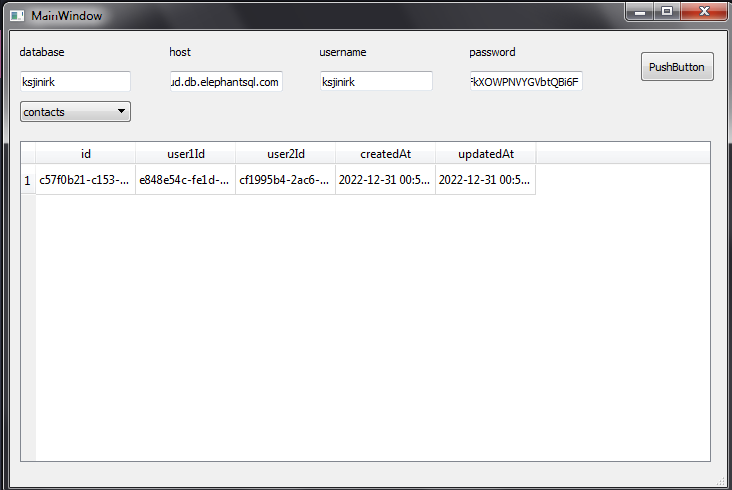
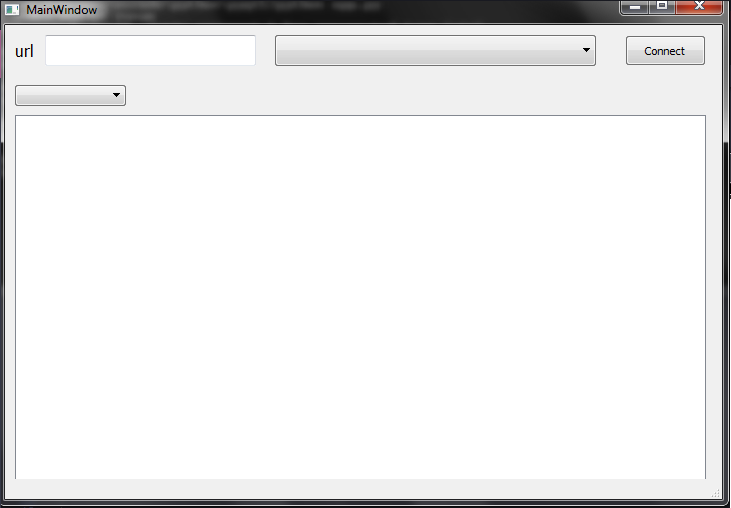
add url

Changed region(s): [[0.0, 0.0, 1.0, 1.0]]

diff --git a/app.py b/app.py
@@ -3,11 +3,14 @@ from PyQt5.QtWidgets import *
 import sys
 import psycopg2
 
+file = open("urls.txt", "a+")
+
 class Ui(QMainWindow):
     def __init__(self):
         super(Ui, self).__init__()
         uic.loadUi("desing/app.ui", self)
         self.tables = []
+        self.lines = []
         self.columnsNames = {}
         self.tablesData = {}
         self.currentTable = ""
@@ -19,17 +22,17 @@ class Ui(QMainWindow):
         self.tableWidget = self.findChild(QTableWidget, "tableWidget")
         self.buttonWidget = self.findChild(QPushButton, "connect")
         self.boxWidget = self.findChild(QComboBox, "tableName")
+        self.urlsWidget = self.findChild(QComboBox, "urls")
 
-        self.databaseWidget = self.findChild(QLineEdit, "database")
-        self.usernameWidget = self.findChild(QLineEdit, "username")
-        self.hostWidget = self.findChild(QLineEdit, "host")
-        self.passwordWidget = self.findChild(QLineEdit, "password")
+        self.urlWidget = self.findChild(QLineEdit, "url")
 
         self.messageBox = QMessageBox()
 
     def setEvents(self):
+        self.setUrls()
         self.buttonWidget.clicked.connect(self.conn)
         self.boxWidget.activated.connect(self.setComboBox)
+        self.urlsWidget.activated.connect(self.setUrl)
 
     def setComboBox(self, table):
         try:
@@ -41,6 +44,22 @@ class Ui(QMainWindow):
         except Exception as error:
             self.messageBox.about(self, "Error", str(error))
 
+    def setUrls(self):
+        try:
+            file.seek(0)
+            self.lines = file.readlines()
+            for index, line in enumerate(self.lines):
+                self.lines[index] = line[:len(line) - 1]
+            self.urlWidget.setText(self.lines[0])
+            self.urlsWidget.clear()
+            self.urlsWidget.addItems(self.lines)
+            self.urlsWidget.setCurrentIndex(self.lines[0])
+        except Exception as error:
+            print(error)
+
+    def setUrl(self, url):
+        print(self.lines[url - 1])
+        self.urlWidget.setText(self.lines[url - 1])
 
     def setData(self):
         if (self.currentTable != ""):
@@ -60,17 +79,13 @@ class Ui(QMainWindow):
         self.tableWidget.setRowCount(0)
         self.boxWidget.clear()
 
-        database = self.databaseWidget.text()
-        host = self.hostWidget.text()
-        username = self.usernameWidget.text()
-        password = self.passwordWidget.text()
+        url = self.urlWidget.text()
 
-        """ if (database == "" and host == "" and username == "" and password == ""):
-            database = ""
-            host = ""
-            username = ""
-            password = ""
-        """
+        host = url[url.find("@") + 1:url.index("/", url.find("@"))]
+        database = url[url.index("/", url.find("@")) + 1:]
+        username = url[url.find("//") + 2:url.index(":", url.find("//"))]
+        password = url[url.index(":", url.find("//")) + 1:url.find("@")]
+
         try:
             conn = psycopg2.connect(host=host, database=database, user=username, password=password)
             cur = conn.cursor()
@@ -101,9 +116,10 @@ class Ui(QMainWindow):
 
             conn.close()
 
-            print(self.tables, self.columnsNames)
-
             self.setComboBox(0)
+
+            file.write(url + "\n")
+            self.setUrls()
         except Exception as error:
             self.messageBox.about(self, "Error", str(error))
 
@@ -113,3 +129,5 @@ def window():
     sys.exit(app.exec_())
 
 window()
+
+file.close()
